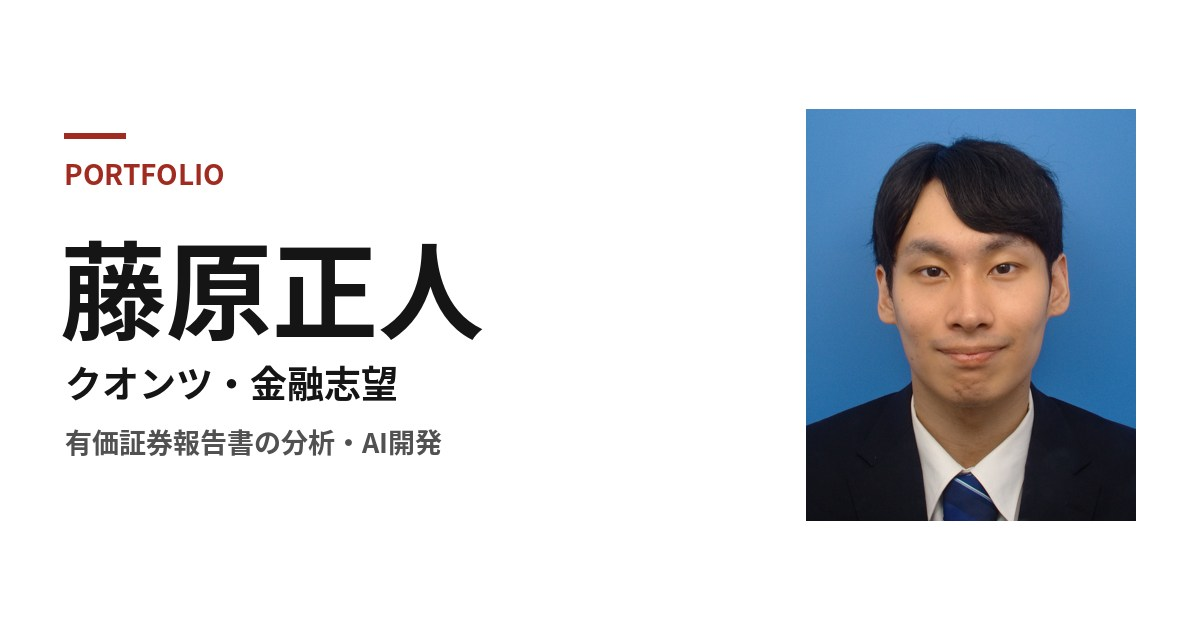
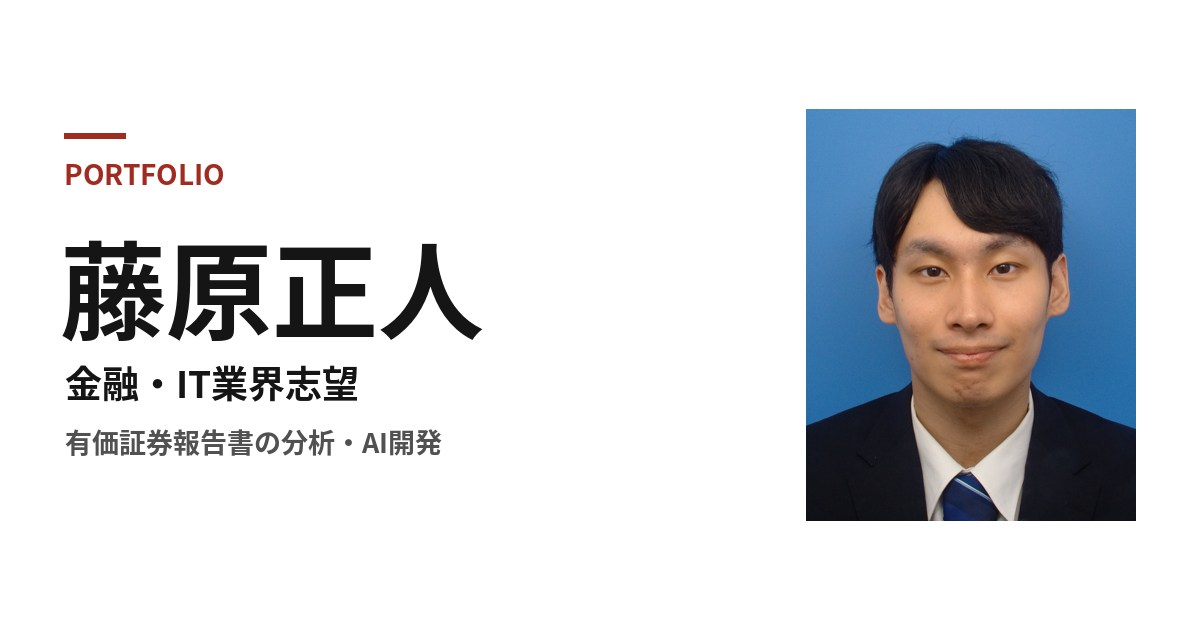
Align portfolio headline with finance and IT interests

Changed region(s): [[0.0308, 0.573, 0.3392, 0.6333]]

diff --git a/index.html b/index.html
@@ -4,14 +4,14 @@
   <meta charset="UTF-8">
   <meta name="viewport" content="width=device-width, initial-scale=1.0, viewport-fit=cover">
   <title>Portfolio | 藤原正人</title>
-  <meta name="description" content="藤原正人のポートフォリオ。クオンツ・金融志望。日本株の有価証券報告書を分析する研究と、将棋AI・ルービックキューブのアプリ開発。">
+  <meta name="description" content="藤原正人のポートフォリオ。金融・IT業界志望。日本株の有価証券報告書を分析する研究と、将棋AI・Webアプリの開発。">
   <link rel="canonical" href="https://ms3bf.github.io/portfolio/">
   <meta property="og:type" content="website">
   <meta property="og:locale" content="ja_JP">
   <meta property="og:url" content="https://ms3bf.github.io/portfolio/">
-  <meta property="og:title" content="藤原正人 | クオンツ・金融志望">
-  <meta property="og:description" content="藤原正人のポートフォリオ。クオンツ・金融志望。日本株の有価証券報告書を分析する研究と、将棋AI・ルービックキューブのアプリ開発。">
-  <meta property="og:image" content="https://ms3bf.github.io/portfolio/assets/portfolio-og.jpg">
+  <meta property="og:title" content="藤原正人 | 金融・IT業界志望">
+  <meta property="og:description" content="藤原正人のポートフォリオ。金融・IT業界志望。日本株の有価証券報告書を分析する研究と、将棋AI・Webアプリの開発。">
+  <meta property="og:image" content="https://ms3bf.github.io/portfolio/assets/portfolio-og.jpg?v=finance-it">
   <meta property="og:image:type" content="image/jpeg">
   <meta property="og:image:width" content="1200">
   <meta property="og:image:height" content="630">
@@ -43,7 +43,7 @@
       <div>
         <p class="eyebrow">PORTFOLIO</p>
         <h1>藤原正人</h1>
-        <p class="lead">クオンツ・金融志望。日本株の有価証券報告書を分析し、将棋AIやルービックキューブのアプリも開発しています。</p>
+        <p class="lead">金融・IT業界志望。有価証券報告書を用いた日本株の分析に取り組み、将棋AIやWebアプリを開発しています。</p>
         <div class="link-row">
           <a href="https://github.com/ms3bf" target="_blank" rel="noopener noreferrer">GitHub</a>
           <a href="https://www.worldcubeassociation.org/persons/2019FUJI07" target="_blank" rel="noopener noreferrer">WCA Profile</a>
